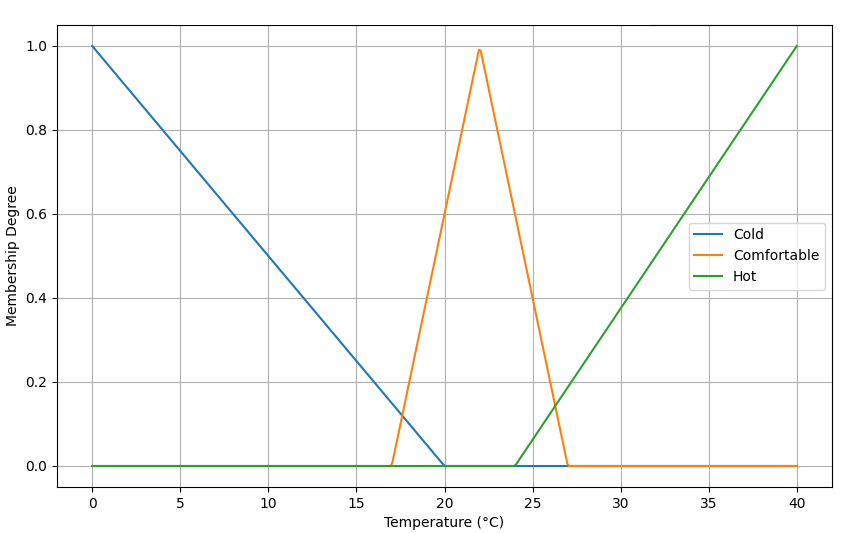
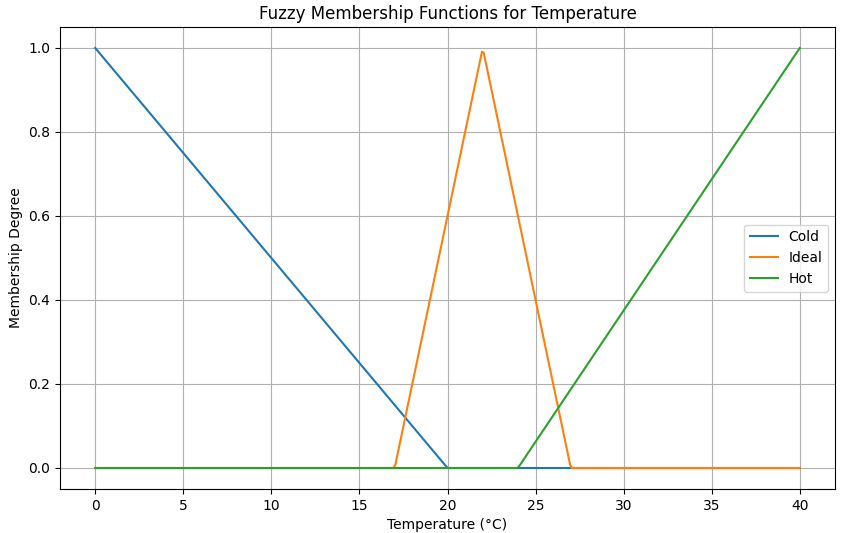
Tweaks to yaml frontmatter ordering in posts. Made content warning more configurable. (Also ID is now optional, as a "random" number is added to "ensure" uniqueness. It's still better to use different IDs on for multiples on the same page though). Modified fuzzy logic 1D example to fit table on iPho

diff --git a/docs/assets/style/custom/main.scss b/docs/assets/style/custom/main.scss
@@ -721,6 +721,7 @@ button.hidden-content-warning {
   background-color: #ffdddd !important;
   border: 1px solid #ff5c5c !important;
   color: #a70000 !important;
+  fill: #a70000 !important;
   font-weight: bold !important;
   font-size: 18px !important;
   text-align: center !important;

diff --git a/docs/_posts/ml-experiments/_experiment_1/2024-10-30-ml-experiments-pt-1.md b/docs/_posts/ml-experiments/_experiment_1/2024-10-30-ml-experiments-pt-1.md
@@ -7,8 +7,8 @@ description: |
   It explores whether LLMs can efficiently create adaptive and complex strategies that might outperform traditional 
   reinforcement learning in certain cases. Through this initial test, the post evaluates the potential of LLMs to drive 
   intelligent, responsive NPC behavior that could transform gameplay dynamics in future applications.
-categories: gamedev machine-learning artificial-intelligence fuzzy-logic
 author: hiive
+categories: gamedev machine-learning artificial-intelligence fuzzy-logic
 tags: |
   policy-based-learning game-ai npc-behavior large-language-model function-approximation reinforcement-learning 
   experiment-1
@@ -202,7 +202,7 @@ is expressed as a probability of that particular action being selected in that s
 {% endcapture %}
 
 {% include content-warning.liquid 
-           id="math" 
+           id="fuzzy" 
            warning="CONTENT WARNING: EXCESSIVE MATH &mdash; CLICK TO SHOW AT YOUR OWN RISK!" 
            content=hidden_content
 %}
@@ -274,10 +274,10 @@ Key Components:
 Imagine controlling the temperature of a room:
 
 -	State Variable: Temperature (in degrees Celsius).
--	Fuzzy Sets: `Cold`, `Comfortable`, `Hot`.
+-	Fuzzy Sets: `Cold`, `Ideal`, `Hot`.
 -	Membership Functions:
 -	`Cold`: High membership for lower temperatures, decreasing as temperature rises.
--	`Comfortable`: Peak membership around the desired temperature range.
+-	`Ideal`: Peak membership around the desired temperature range.
 -	`Hot`: Low membership at lower temperatures, increasing as it gets hotter.
 -	Policy: Adjust heating or cooling based on the fuzzy membership degrees.
 
@@ -285,11 +285,11 @@ The membership function definitions are shown in the following table:
 
 <div class="data-table">
 
-| Fuzzy Set   | Membership Function                                                                                                                                                         |
-|-------------|-----------------------------------------------------------------------------------------------------------------------------------------------------------------------------|
-| `Cold`        | $$\mu_{\text{Cold}}(T) = \begin{cases} 1, & T \leq 15 \\ \dfrac{20 - T}{5}, & 15 < T < 20 \\ 0, & T \geq 20 \end{cases}$$                                                   |
-| `Comfortable` | $$\mu_{\text{Comfortable}}(T) = \begin{cases} 0, & T \leq 17 \text{ or } T \geq 23 \\ \dfrac{T - 17}{3}, & 17 < T < 20 \\ \dfrac{23 - T}{3}, & 20 \leq T < 23 \end{cases}$$ |
-| `Hot`         | $$ \mu_{\text{Hot}}(T) = \begin{cases} 0, & T \leq 25 \\ \dfrac{T - 25}{5}, & 25 < T < 30 \\ 1, & T \geq 30 \end{cases}$$                                                   |
+| Fuzzy Set | Membership Function                                                                                                                                                         |
+|-----------|-----------------------------------------------------------------------------------------------------------------------------------------------------------------------------|
+| `Cold`    | $$\mu_{\text{Cold}}(T) = \begin{cases} 1, & T \leq 15 \\ \dfrac{20 - T}{5}, & 15 < T < 20 \\ 0, & T \geq 20 \end{cases}$$                                                   |
+| `Ideal`   | $$\mu_{\text{Ideal}}(T) = \begin{cases} 0, & T \leq 17 \text{ or } T \geq 23 \\ \dfrac{T - 17}{3}, & 17 < T < 20 \\ \dfrac{23 - T}{3}, & 20 \leq T < 23 \end{cases}$$ |
+| `Hot`     | $$ \mu_{\text{Hot}}(T) = \begin{cases} 0, & T \leq 25 \\ \dfrac{T - 25}{5}, & 25 < T < 30 \\ 1, & T \geq 30 \end{cases}$$                                                   |
 
 </div>
 <br/>
@@ -306,9 +306,9 @@ Let’s consider a temperature of 18°C and calculate our membership degrees.
 
 $$\mu_{\text{Cold}}(18) = \dfrac{20 - 18}{5} = \dfrac{2}{5} = 0.4$$
 
-- `Comfortable`: Since $17 < 18 < 20$:
+- `Ideal`: Since $17 < 18 < 20$:
 
-$$\mu_{\text{Comfortable}}(18) = \dfrac{18 - 17}{3} = \dfrac{1}{3} \approx 0.333$$
+$$\mu_{\text{Ideal}}(18) = \dfrac{18 - 17}{3} = \dfrac{1}{3} \approx 0.333$$
 
 - `Hot`: Since $18 \leq 25$:
 
@@ -316,7 +316,7 @@ $$\mu_{\text{Hot}}(18) = 0$$
 
 To interpret this, we can say that at 18°C, the temperature is:
 -	Partially `Cold`: Membership degree of `0.4`.
--	Slightly `Comfortable`: Membership degree of approximately `0.333`.
+-	Slightly `Ideal`: Membership degree of approximately `0.333`.
 -	Not `Hot`: Membership degree of `0`.
 
 We can also reverse the process to obtain a concrete temperature from a set of fuzzy membership values, and

diff --git a/docs/_posts/2024-05-20-the-fawn-engine-post.md b/docs/_posts/2024-05-20-the-fawn-engine-post.md
@@ -5,8 +5,8 @@ description: |
   This article introduces the “Flexible Architecture for World-building and Narrative” engine, a project aimed at 
   integrating artificial intelligence and machine learning into game design to create procedurally generated experiences 
   that feel handcrafted. It discusses the motivation behind the project and its intended goals. 
-categories: gamedev
 author: hiive
+categories: gamedev
 tags: roguelikes musings game-engine
 ---
 

diff --git a/docs/_posts/2024-05-27-terrain-generation-in-rust-pt-1.md b/docs/_posts/2024-05-27-terrain-generation-in-rust-pt-1.md
@@ -4,8 +4,8 @@ title:  "Terrain Generation in Rust, Part 1"
 description: |
   This post explores the process of landscape generation using Rust, focusing on a seeded expansion algorithm to ensure 
   consistent chunk generation. It provides a detailed look into the methods employed for procedural terrain creation.
-categories: gamedev
 author: hiive
+categories: gamedev
 tags: world-building terrain-generation procedural-generation rust roguelikes
 ---
 

diff --git a/docs/_posts/2023-07-23-can-i-have-a-little-more-plot-with-that.md b/docs/_posts/2023-07-23-can-i-have-a-little-more-plot-with-that.md
@@ -4,8 +4,8 @@ title:  "Rogue Games: Can I have a little more plot with that?"
 description: |
   This inaugural guest post reflects on the evolution of gaming culture and the increasing integration of narrative elements 
   into Roguelike games. It examines the balance between procedural generation and storytelling in game design.
-categories: gamedev
 author: ellafae
+categories: gamedev
 tags: roguelikes musings
 ---
 

diff --git a/docs/_posts/2024-06-02-tile-map-expansion.md b/docs/_posts/2024-06-02-tile-map-expansion.md
@@ -5,8 +5,8 @@ description: |
   This development log provides an overview of a tile map management system, detailing its architecture and 
   functionality. It serves as a continuation of previous discussions, offering insights into the system’s design and 
   implementation.
-categories: gamedev
 author: hiive
+categories: gamedev
 tags: world-building terrain-generation procedural-generation c-sharp roguelikes
 ---
 

diff --git a/docs/_posts/2024-07-11-musings-on-the-berlin-interpretation.md b/docs/_posts/2024-07-11-musings-on-the-berlin-interpretation.md
@@ -5,8 +5,8 @@ description: |
   This article delves into the Berlin Interpretation, a framework attempting to define the essential characteristics of 
   Roguelike games. It discusses the criteria set forth by this interpretation and reflects on its relevance and impact 
   on the genre.
-categories: gamedev
 author: hiive
+categories: gamedev
 tags: roguelikes musings
 ---
 

diff --git a/docs/_posts/2024-05-26-world-building.md b/docs/_posts/2024-05-26-world-building.md
@@ -4,8 +4,8 @@ title:  "World Building"
 description: |
   This entry offers background information pertinent to upcoming development discussions, setting the stage for 
   more in-depth technical explorations in future posts.
-categories: gamedev
 author: hiive
+categories: gamedev
 tags: world-building terrain-generation procedural-generation c-sharp rust roguelikes
 ---
 
